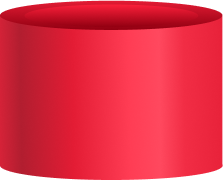
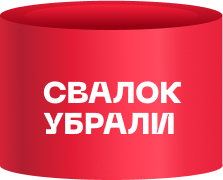
ZHENY DODELAY(andrey)
Counter свалкам бой на мапе

Changed region(s): [[0.1883, 0.4444, 0.8341, 0.5833], [0.1883, 0.6111, 0.7803, 0.75]]

diff --git a/client/src/pages/Map/components/counters/ui.tsx b/client/src/pages/Map/components/counters/ui.tsx
@@ -1,0 +1,25 @@
+import { size } from "@floating-ui/core";
+import { info } from "console";
+import React from "react";
+import dump from "shared/images/counter base.png";
+import head_dump from "shared/images/counter head.png";
+import indo from "shared/images/info-map.png";
+import "./ui.scss";
+
+export const CounterNumber: React.FC = () => {
+  return (
+    <section className="body">
+      <img className="info" src={indo} />
+      <div className="counter_head">
+        <img
+          className="counter_head"
+          src={head_dump}
+          alt="Счетчик убранных свалок"
+        />
+      </div>
+      <div className="counter_base">
+        <img className="counter_base" src={dump} alt="Подставка" />
+      </div>
+    </section>
+  );
+};

diff --git a/client/src/pages/Map/components/counters/ui.scss b/client/src/pages/Map/components/counters/ui.scss
@@ -1,0 +1,26 @@
+.body {
+  display: block;
+  margin-top: 30em;
+
+  .counter_head {
+    position: absolute;
+    margin-top: -4.2em;
+    margin-left: 9em;
+    z-index: 1;
+  }
+  .counter_base {
+    margin-left: 8.2em;
+    margin-top: -2em;
+    z-index: 0;
+  }
+  .text_counter {
+    font-family: "Neue Machina";
+    font-size: 3em;
+    font-weight: bold;
+  }
+}
+.info {
+  position: relative;
+  margin-left: 75em;
+
+}

diff --git a/client/src/pages/Map/index.tsx b/client/src/pages/Map/index.tsx
@@ -1,11 +1,13 @@
-import { JunkInfo, MapSection } from "./components";
+import { JunkInfo, MapSection, CounterNumber } from "./components";
 
 function Map() {
   return (
-    <>
+    <div style={{backgroundColor:"black"}}>
+
       <MapSection />
+      <CounterNumber />
       <JunkInfo />
-    </>
+    </div>
   );
 }
 

diff --git a/client/src/pages/Map/components/index.ts b/client/src/pages/Map/components/index.ts
@@ -1,2 +1,3 @@
 export * from "./map/ui";
 export * from "./info/ui";
+export * from "../../Map/components/counters/ui";

diff --git a/client/src/pages/Main/components/index.ts b/client/src/pages/Main/components/index.ts
@@ -1,2 +1,3 @@
 export * from "./tomap/ui";
 export * from "./banner/ui";
+
